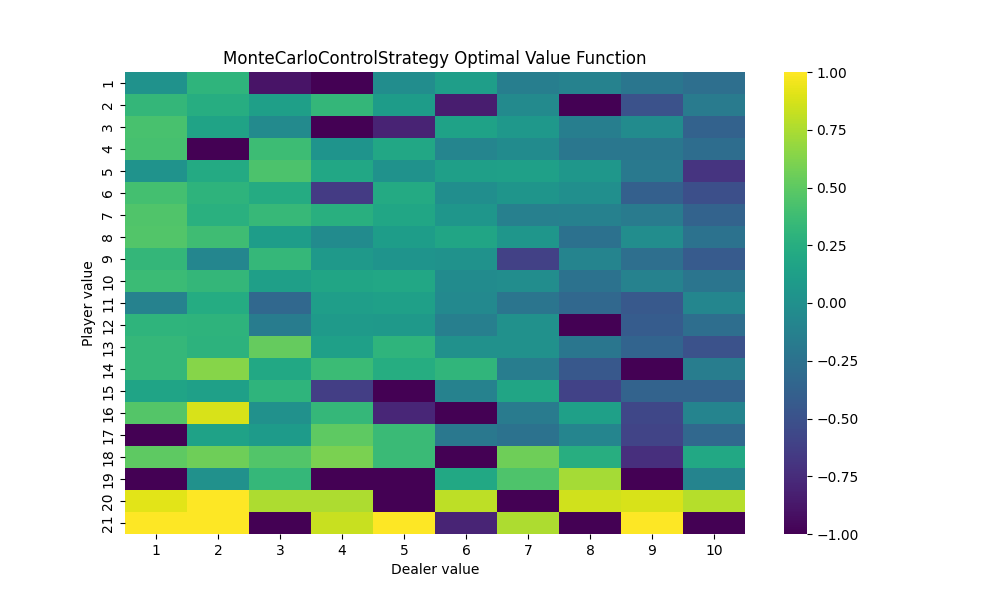
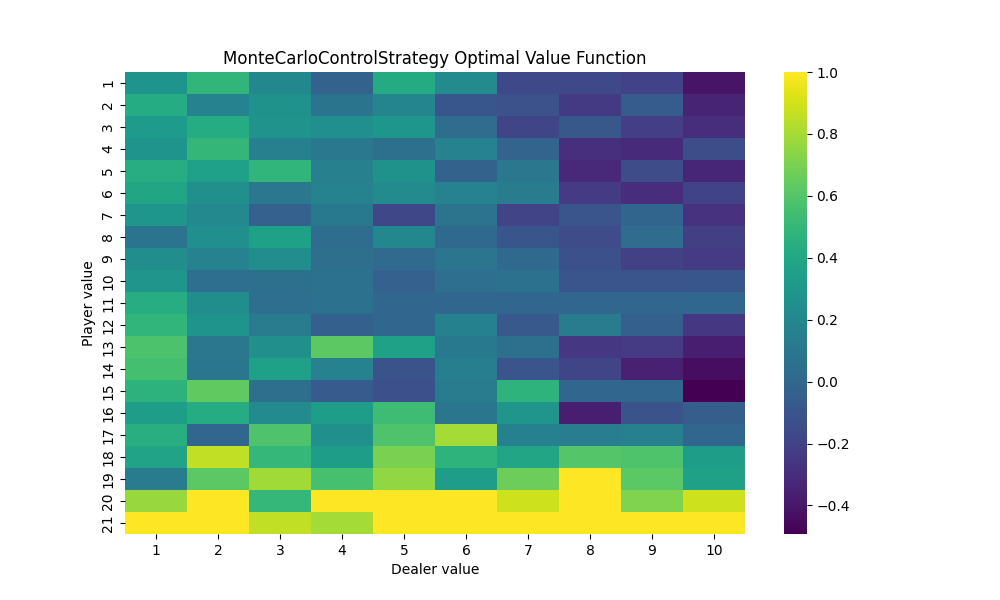
Migrate MonteCarloControlStrategy's counter parameter from dict to pd.DataFrame, and implement more sophisticated epsilon-greedy where epislon depends on counter value at each iteration.

diff --git a/control_strategy.py b/control_strategy.py
@@ -1,16 +1,18 @@
 """Module for all available control strategies in Easy21."""
 
-from agent import AgentStatus
-from collections import defaultdict, Counter
+from collections import defaultdict
 from enum import StrEnum
 from dataclasses import dataclass
-from typing import Any
 
 import pandas as pd
 import random
 import pickle
 import matplotlib.pyplot as plt
 import seaborn as sns
+
+
+# Hyperparameters.
+N0 = 100  # Used for epsilon-greedy. episilon = N0 / (N0 + N(s))
 
 
 def _initial_action_distribution() -> dict:
@@ -105,15 +107,10 @@ class MonteCarloControlStrategy(ControlStrategy):
     See slide 16 in https://davidstarsilver.wordpress.com/wp-content/uploads/2025/04/lecture-5-model-free-control-.pdf
     """
 
-    def __init__(
-            self,
-            episilon: float = 0.1) -> None:
+    def __init__(self) -> None:
         # Monte Carlo control parameters.
-        self.n: dict[tuple[State, Action], int] = Counter() 
+        self.n: pd.DataFrame = pd.DataFrame()
         self.q: pd.DataFrame = pd.DataFrame()
-
-        # Hyperparameters.
-        self.episilon = episilon
 
         # Initialize policy to uniform random.
         self.policy = Policy(
@@ -129,14 +126,28 @@ class MonteCarloControlStrategy(ControlStrategy):
         for i in range(0, len(trajectory) - 3, 3):
             state, action, reward = trajectory[i], trajectory[i+1], trajectory[i+2]
             gain += reward
-            self.n[(state, action)] += 1
-        if state not in self.q.index or action not in self.q.columns:
-            self.q.at[state, action] = 0.0
+            # Note: cannot do self.n.at[state, action] = 0 directly due to pandas behavior.
+            # Pandas does not actually create a new row or column. Also Pandas df expects
+            # column to exist before index (row) assignment.
+            if action not in self.n.columns:
+                self.n[action] = 0
+            if state not in self.n.index:
+                self.n.loc[state] = 0
+            self.n.at[state, action] += 1
+            assert not pd.isna(self.n.at[state, action]), \
+                f"N value should not be NaN after update. State: {state}, Action: {action}"
+        if action not in self.q.columns:
+            self.q[action] = 0.0
+        if state not in self.q.index:
+            self.q.loc[state] = 0.0
         current_q = self.q.at[state, action]
         if pd.isna(current_q):
             current_q = 0.0
-        self.q.at[state, action] += 1 / self.n[(state, action)] * (gain - current_q)
-        
+        alpha = 1.0 / self.n.at[state, action]
+        self.q.at[state, action] += alpha * (gain - current_q)
+        assert not pd.isna(self.q.at[state, action]), \
+            f"Q value should not be NaN after update. State: {state}, Action: {action}"
+
         # Policy improvement using episilon-greedy. Based on slide 11 in
         # https://davidstarsilver.wordpress.com/wp-content/uploads/2025/04/lecture-5-model-free-control-.pdf
         new_distribution = defaultdict(_initial_action_distribution)
@@ -144,9 +155,10 @@ class MonteCarloControlStrategy(ControlStrategy):
             best_action = self.q.loc[state].idxmax()
             available_actions = list(Action)
             m = len(available_actions)
-            new_distribution[state][best_action] = self.episilon / m + 1 - self.episilon
+            epsilon = N0 / (N0 + self.n.loc[state].max())
+            new_distribution[state][best_action] = epsilon / m + 1 - epsilon
             for action in available_actions:
-                new_distribution[state][action] = self.episilon / m
+                new_distribution[state][action] = epsilon / m
         self.policy = Policy(distribution=new_distribution)
 
     def next_action(self, state: State) -> Action:
